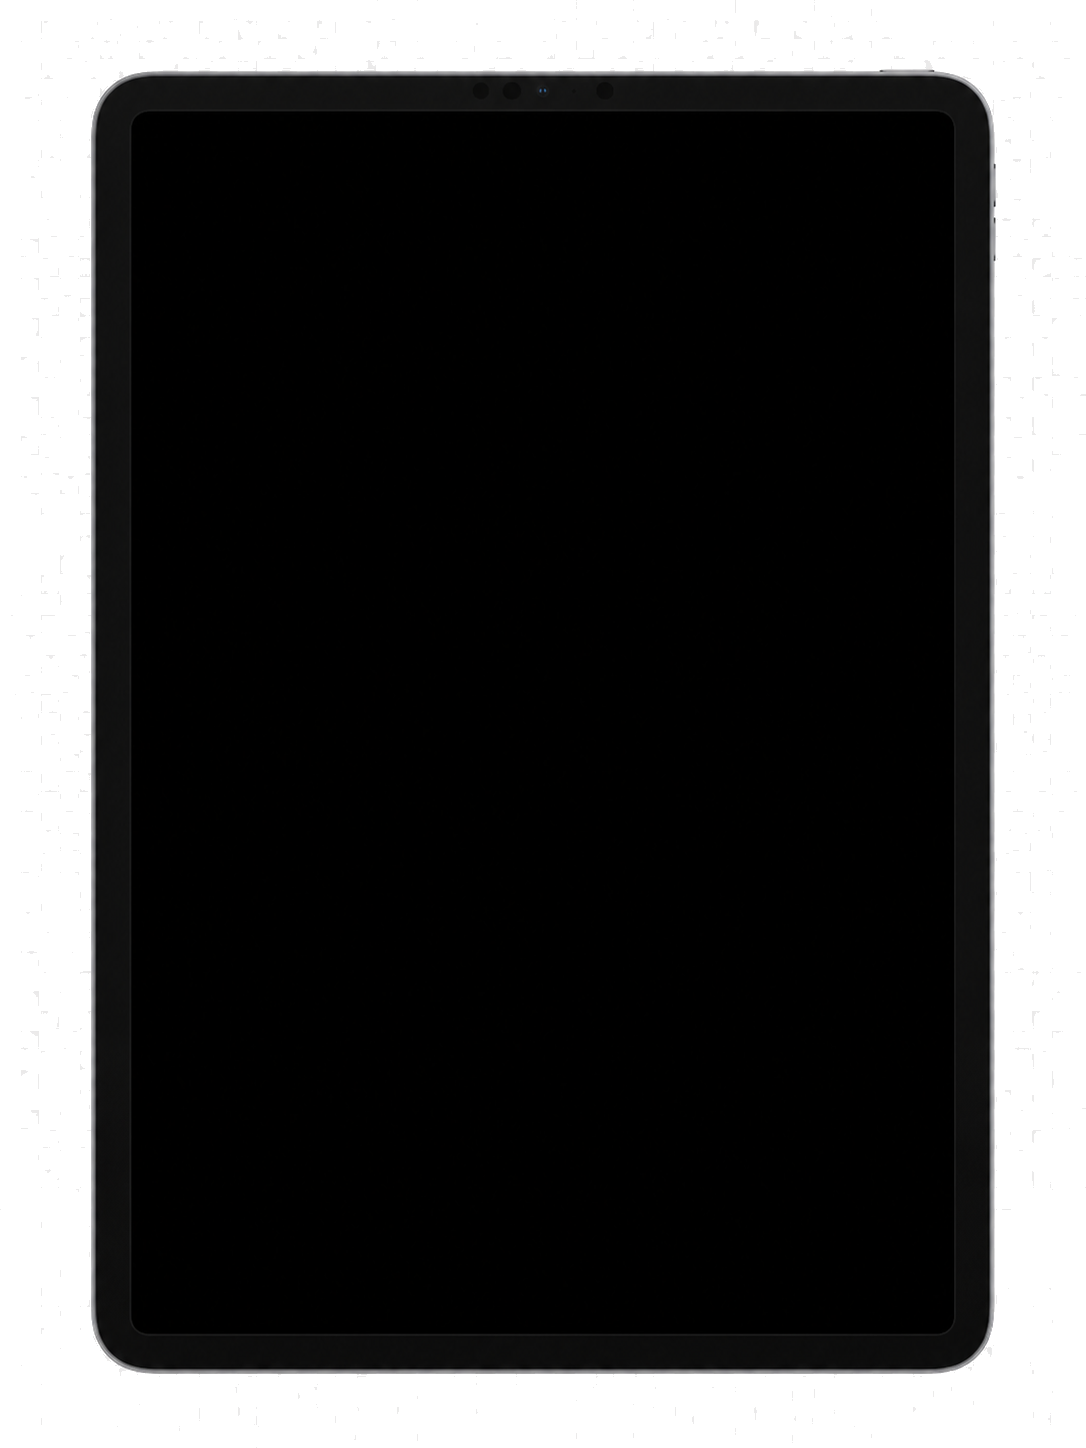
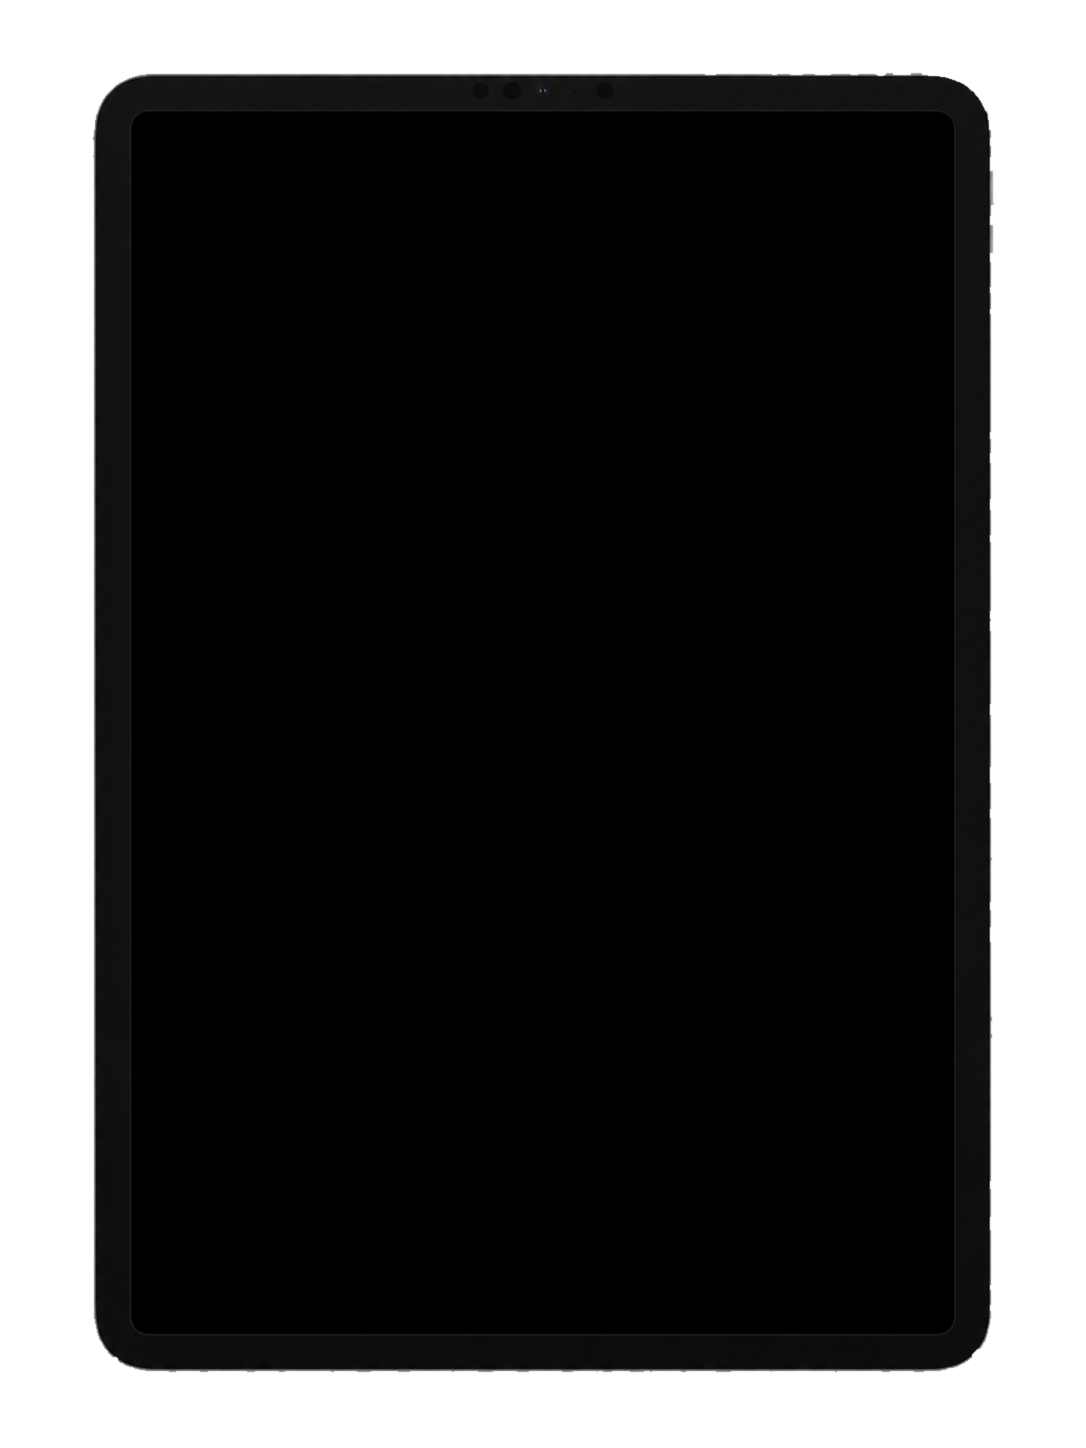
fix(demo-studio): genuine iPad frame + hover-effect CaptureChooser
CaptureChooser i Guided Recorder viser nå de tre opptaks-målene
(Mac/iPad/iPhone) side om side med god plass — ingen overlapp, ingen
svivel. Hover løfter enheten, dimmer de andre, viser speilrefleksjon
og tenner skjermen med brand-glød (klippet til skjerm-hullet, over
rammen så den synes også på enheter med opak svart skjerm). Tittel
("Skrivebordsapp"/"Mobilapp" + modell) står over hver enhet.

iPad-rammen var grynete mot mørk bakgrunn: ChatGPT-mockupens frynsete
sølv-kant + lys drop-shadow ga prikker. Renset ved å beholde kun
største sammenhengende komponent (fjerner isolerte skygge-flekker) og
erodere den frynsete ytterkanten ~2px. Synket til både Tauri-app og
frontend mockup-video-modulen.

diff --git a/apps/resolve-script-manager/src/components/demo-studio/CaptureChooser.tsx b/apps/resolve-script-manager/src/components/demo-studio/CaptureChooser.tsx
@@ -1,30 +1,23 @@
 /**
- * CaptureChooser — Cover Flow-velger for opptaks-mål.
+ * CaptureChooser — velg opptaks-mål (åpnes inne i Guided Recorder).
  *
- * Tre device-kort (Mac / iPad / iPhone) i 3D-perspektiv: det valgte står rett
- * mot deg, de andre er vippet bortover (svivel). Klikk et sidekort eller bruk
- * pilene → kortene glir sidelengs og den nye snurrer frem til midten — som å
- * bytte app på iPhone (Cover Flow / App Switcher).
+ * Tre enheter side om side med GOD PLASS (ikke overlappende). Hover løfter
+ * enheten opp, viser en speilrefleksjon under, og en tittel ("Skrivebordsapp"
+ * etc.) over enheten. Klikk velger. Ingen svivel — ren, rolig hover-effekt.
  *
- * Bruker de ekte device-ramme-PNG-ene (DEVICE_FRAMES). Velger man Mac →
- * skrivebordsapp; iPad/iPhone → mobilapp. onChoose gir valgt variant videre.
+ * Bruker de ekte device-ramme-PNG-ene (DEVICE_FRAMES).
  */
 
 import { useState } from 'react';
 import { DEVICE_FRAMES, type FrameVariant } from './deviceFrames';
 
 const C = {
-  bg: '#0e0c0b', panel: '#161412', ink: '#f2ede6', inkSoft: '#b7b0a6', inkFaint: '#7c756b',
+  bg: '#0e0c0b', ink: '#f2ede6', inkSoft: '#b7b0a6', inkFaint: '#7c756b',
   accent: '#ef8a5d', accentDk: '#d96a3a', line: '#2a2724',
   font: '-apple-system, BlinkMacSystemFont, "SF Pro Text", "Segoe UI", Inter, sans-serif',
 };
 
-interface CardDef {
-  variant: FrameVariant;
-  title: string;
-  kind: string;       // hva slags app
-  sub: string;
-}
+interface CardDef { variant: FrameVariant; title: string; kind: string; sub: string }
 const CARDS: CardDef[] = [
   { variant: 'macbook', title: 'Mac', kind: 'Skrivebordsapp', sub: 'Nettside eller desktop-app' },
   { variant: 'ipad', title: 'iPad', kind: 'Mobilapp', sub: 'iPad-app, også fra App Store' },
@@ -35,116 +28,104 @@ export function CaptureChooser({ onChoose, onClose }: {
   onChoose: (variant: FrameVariant) => void;
   onClose?: () => void;
 }) {
-  const [active, setActive] = useState(0); // 0=mac, 1=ipad, 2=iphone
-  const go = (dir: -1 | 1) => setActive((a) => Math.min(CARDS.length - 1, Math.max(0, a + dir)));
+  const [hover, setHover] = useState<FrameVariant | null>(null);
 
   return (
     <div style={{ position: 'fixed', inset: 0, background: C.bg, display: 'flex', flexDirection: 'column', zIndex: 90, fontFamily: C.font, color: C.ink }}>
       {/* Topp */}
-      <div style={{ display: 'flex', alignItems: 'center', padding: '20px 24px' }}>
+      <div style={{ display: 'flex', alignItems: 'center', padding: '24px 28px' }}>
         <div>
-          <div style={{ fontSize: 20, fontWeight: 700 }}>Hva vil du ta opp?</div>
-          <div style={{ fontSize: 13, color: C.inkSoft, marginTop: 2 }}>Velg enhet — bla med pilene eller klikk et kort.</div>
+          <div style={{ fontSize: 22, fontWeight: 700 }}>Hva vil du ta opp?</div>
+          <div style={{ fontSize: 13.5, color: C.inkSoft, marginTop: 3 }}>Velg enheten du vil lage demoen for.</div>
         </div>
         <div style={{ flex: 1 }} />
-        {onClose && <div onClick={onClose} style={{ cursor: 'pointer', color: C.inkFaint, fontSize: 22 }}>✕</div>}
+        {onClose && <div onClick={onClose} style={{ cursor: 'pointer', color: C.inkFaint, fontSize: 24 }}>✕</div>}
       </div>
 
-      {/* Cover Flow-scene */}
-      <div style={{ flex: 1, position: 'relative', display: 'flex', alignItems: 'center', justifyContent: 'center', perspective: 1400, overflow: 'hidden' }}>
-        {/* Pil venstre */}
-        <button onClick={() => go(-1)} disabled={active === 0}
-          style={{ ...navBtn, left: 28, opacity: active === 0 ? 0.25 : 1 }}>‹</button>
-
-        <div style={{ position: 'relative', width: 520, height: 460, transformStyle: 'preserve-3d' }}>
-          {CARDS.map((card, i) => {
-            const offset = i - active;          // -1 venstre, 0 midt, +1 høyre
-            const abs = Math.abs(offset);
-            const isActive = offset === 0;
-            // Cover Flow-transform: sidekort skyves ut + vippes bortover.
-            const tx = offset * 230;
-            const rotY = offset === 0 ? 0 : (offset < 0 ? 42 : -42);
-            const tz = isActive ? 60 : -120 - (abs - 1) * 80;
-            const scale = isActive ? 1 : 0.82;
-            return (
-              <div key={card.variant}
-                onClick={() => (isActive ? onChoose(card.variant) : setActive(i))}
-                style={{
-                  position: 'absolute', left: '50%', top: 0, width: 260, marginLeft: -130,
-                  transform: `translateX(${tx}px) translateZ(${tz}px) rotateY(${rotY}deg) scale(${scale})`,
-                  transition: 'transform .5s cubic-bezier(.22,.61,.36,1), opacity .4s',
-                  opacity: abs > 1 ? 0 : 1,
-                  cursor: 'pointer', zIndex: 10 - abs,
-                  filter: isActive ? 'none' : 'brightness(.6)',
-                }}>
-                <DeviceCard card={card} active={isActive} />
-              </div>
-            );
-          })}
-        </div>
-
-        {/* Pil høyre */}
-        <button onClick={() => go(1)} disabled={active === CARDS.length - 1}
-          style={{ ...navBtn, right: 28, opacity: active === CARDS.length - 1 ? 0.25 : 1 }}>›</button>
-      </div>
-
-      {/* Bunn: info + velg-knapp + prikker */}
-      <div style={{ padding: '0 24px 36px', textAlign: 'center' }}>
-        <div style={{ fontSize: 12, textTransform: 'uppercase', letterSpacing: 1, color: C.accent, fontWeight: 700 }}>{CARDS[active].kind}</div>
-        <div style={{ fontSize: 22, fontWeight: 700, marginTop: 4 }}>{CARDS[active].title}</div>
-        <div style={{ fontSize: 13, color: C.inkSoft, marginTop: 2, marginBottom: 18 }}>{CARDS[active].sub}</div>
-        <button onClick={() => onChoose(CARDS[active].variant)}
-          style={{ background: `linear-gradient(135deg, ${C.accent}, ${C.accentDk})`, border: 0, color: '#fff', fontSize: 14, fontWeight: 600, padding: '12px 30px', borderRadius: 10, cursor: 'pointer' }}>
-          Velg {CARDS[active].title} →
-        </button>
-        <div style={{ display: 'flex', gap: 7, justifyContent: 'center', marginTop: 20 }}>
-          {CARDS.map((_, i) => (
-            <span key={i} onClick={() => setActive(i)}
-              style={{ width: i === active ? 22 : 8, height: 8, borderRadius: 4, background: i === active ? C.accent : '#3a352f', cursor: 'pointer', transition: 'all .3s' }} />
-          ))}
-        </div>
+      {/* Tre enheter med god plass */}
+      <div style={{ flex: 1, display: 'flex', alignItems: 'center', justifyContent: 'center', gap: 80, padding: '0 60px 40px' }}>
+        {CARDS.map((card) => (
+          <DeviceChoice key={card.variant} card={card}
+            hovered={hover === card.variant} dim={hover !== null && hover !== card.variant}
+            onHover={(on) => setHover(on ? card.variant : null)}
+            onClick={() => onChoose(card.variant)} />
+        ))}
       </div>
     </div>
   );
 }
 
-/** Ett device-kort med ekte ramme-PNG + glød/sokkel når aktivt. */
-function DeviceCard({ card, active }: { card: CardDef; active: boolean }) {
+/** Én enhet: tittel over, ekte ramme, refleksjon under, løft ved hover. */
+function DeviceChoice({ card, hovered, dim, onHover, onClick }: {
+  card: CardDef; hovered: boolean; dim: boolean;
+  onHover: (on: boolean) => void; onClick: () => void;
+}) {
   const f = DEVICE_FRAMES[card.variant];
-  // Normaliser høyde så alle kort er omtrent like høye i scenen.
-  const targetH = card.variant === 'macbook' ? 200 : 320;
+  // Normaliser så alle blir omtrent like høye.
+  const targetH = card.variant === 'macbook' ? 240 : 360;
   const w = targetH * f.aspect;
+
   return (
-    <div style={{ display: 'flex', flexDirection: 'column', alignItems: 'center' }}>
-      <div style={{
-        width: w, height: targetH,
-        filter: active
-          ? `drop-shadow(0 30px 50px rgba(0,0,0,.6)) drop-shadow(0 0 0 rgba(239,138,93,.0))`
-          : 'drop-shadow(0 18px 30px rgba(0,0,0,.5))',
-      }}>
-        {/* Skjerm-glød i aktivt kort */}
-        <div style={{ position: 'relative', width: '100%', height: '100%' }}>
-          <div style={{
-            position: 'absolute',
-            left: `${f.screen.x * 100}%`, top: `${f.screen.y * 100}%`,
-            width: `${f.screen.w * 100}%`, height: `${f.screen.h * 100}%`,
-            borderRadius: `${f.radius * 100}%`,
-            background: active
-              ? `linear-gradient(150deg, ${C.accent}, ${C.accentDk})`
-              : '#1a1a1f',
-          }} />
-          <img src={f.src} alt={card.title} style={{ position: 'absolute', inset: 0, width: '100%', height: '100%' }} />
-        </div>
+    <div
+      onMouseEnter={() => onHover(true)} onMouseLeave={() => onHover(false)}
+      onClick={onClick}
+      style={{
+        display: 'flex', flexDirection: 'column', alignItems: 'center',
+        cursor: 'pointer', transition: 'opacity .3s', opacity: dim ? 0.45 : 1,
+      }}
+    >
+      {/* Tittel over enheten */}
+      <div style={{ textAlign: 'center', marginBottom: 18, transition: 'transform .35s, opacity .35s', transform: hovered ? 'translateY(0)' : 'translateY(8px)', opacity: hovered ? 1 : 0.7 }}>
+        <div style={{ fontSize: 12, textTransform: 'uppercase', letterSpacing: 1.5, color: C.accent, fontWeight: 700 }}>{card.kind}</div>
+        <div style={{ fontSize: 19, fontWeight: 700, marginTop: 2 }}>{card.title}</div>
       </div>
+
+      {/* Enhet (løftes ved hover) */}
+      <div style={{
+        width: w, height: targetH, position: 'relative',
+        transition: 'transform .35s cubic-bezier(.22,.61,.36,1), filter .35s',
+        transform: hovered ? 'translateY(-14px)' : 'translateY(0)',
+        filter: hovered
+          ? 'drop-shadow(0 40px 40px rgba(0,0,0,.55))'
+          : 'drop-shadow(0 22px 30px rgba(0,0,0,.45))',
+      }}>
+        <img src={f.src} alt={card.title} style={{ position: 'absolute', inset: 0, width: '100%', height: '100%' }} />
+        {/* Brand-glød i skjermen ved hover (over rammen, klippet til skjerm-hullet) */}
+        <div style={{
+          position: 'absolute',
+          left: `${f.screen.x * 100}%`, top: `${f.screen.y * 100}%`,
+          width: `${f.screen.w * 100}%`, height: `${f.screen.h * 100}%`,
+          borderRadius: `${f.radius * 100}%`,
+          background: `linear-gradient(150deg, ${C.accent}, ${C.accentDk})`,
+          opacity: hovered ? 1 : 0, transition: 'opacity .35s',
+          pointerEvents: 'none',
+        }} />
+      </div>
+
+      {/* Speilrefleksjon under (sterkere ved hover) */}
+      <div style={{
+        width: w, height: targetH * 0.42, marginTop: 4, position: 'relative',
+        transform: 'scaleY(-1)',
+        maskImage: 'linear-gradient(to bottom, rgba(0,0,0,.5), transparent 70%)',
+        WebkitMaskImage: 'linear-gradient(to bottom, rgba(0,0,0,.5), transparent 70%)',
+        opacity: hovered ? 0.5 : 0.22, transition: 'opacity .35s',
+        pointerEvents: 'none',
+      }}>
+        <img src={f.src} alt="" style={{ width: '100%', height: 'auto' }} />
+      </div>
+
+      {/* Velg-knapp viser seg ved hover */}
+      <button style={{
+        marginTop: 6, background: `linear-gradient(135deg, ${C.accent}, ${C.accentDk})`,
+        border: 0, color: '#fff', fontSize: 13, fontWeight: 600, padding: '9px 22px',
+        borderRadius: 9, cursor: 'pointer',
+        transition: 'opacity .3s, transform .3s',
+        opacity: hovered ? 1 : 0, transform: hovered ? 'translateY(0)' : 'translateY(-6px)',
+      }}>
+        Velg {card.title} →
+      </button>
     </div>
   );
 }
-
-const navBtn: React.CSSProperties = {
-  position: 'absolute', top: '50%', transform: 'translateY(-50%)', zIndex: 30,
-  width: 48, height: 48, borderRadius: '50%', border: `1px solid ${C.line}`,
-  background: 'rgba(255,255,255,0.06)', color: C.ink, fontSize: 26, lineHeight: '44px',
-  cursor: 'pointer', backdropFilter: 'blur(8px)',
-};
 
 export default CaptureChooser;
